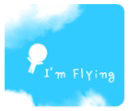
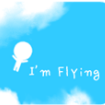
Site updated: 2015-12-16 20:45:50

diff --git a/2015/12/16/hello-world/index.html b/2015/12/16/hello-world/index.html
@@ -32,7 +32,7 @@
 	<header id="header" class="inner">
 		<a href="/" class="profilepic">
 			
-			<img lazy-src="/img/myTitle2.png" class="js-avatar">
+			<img lazy-src="/img/myTitle.png" class="js-avatar">
 			
 		</a>
 
@@ -96,7 +96,7 @@
 	<div class="intrude-less">
 		<header id="header" class="inner">
 			<a href="/" class="profilepic">
-				<img lazy-src="/img/myTitle2.png" class="js-avatar">
+				<img lazy-src="/img/myTitle.png" class="js-avatar">
 			</a>
 			<hgroup>
 			  <h1 class="header-author"><a href="/" title="回到主页">Tianle Zhang</a></h1>

diff --git a/2015/12/16/test/index.html b/2015/12/16/test/index.html
@@ -32,7 +32,7 @@
 	<header id="header" class="inner">
 		<a href="/" class="profilepic">
 			
-			<img lazy-src="/img/myTitle2.png" class="js-avatar">
+			<img lazy-src="/img/myTitle.png" class="js-avatar">
 			
 		</a>
 
@@ -96,7 +96,7 @@
 	<div class="intrude-less">
 		<header id="header" class="inner">
 			<a href="/" class="profilepic">
-				<img lazy-src="/img/myTitle2.png" class="js-avatar">
+				<img lazy-src="/img/myTitle.png" class="js-avatar">
 			</a>
 			<hgroup>
 			  <h1 class="header-author"><a href="/" title="回到主页">Tianle Zhang</a></h1>

diff --git a/archives/2015/12/index.html b/archives/2015/12/index.html
@@ -31,7 +31,7 @@
 	<header id="header" class="inner">
 		<a href="/" class="profilepic">
 			
-			<img lazy-src="/img/myTitle2.png" class="js-avatar">
+			<img lazy-src="/img/myTitle.png" class="js-avatar">
 			
 		</a>
 
@@ -95,7 +95,7 @@
 	<div class="intrude-less">
 		<header id="header" class="inner">
 			<a href="/" class="profilepic">
-				<img lazy-src="/img/myTitle2.png" class="js-avatar">
+				<img lazy-src="/img/myTitle.png" class="js-avatar">
 			</a>
 			<hgroup>
 			  <h1 class="header-author"><a href="/" title="回到主页">Tianle Zhang</a></h1>

diff --git a/archives/2015/index.html b/archives/2015/index.html
@@ -31,7 +31,7 @@
 	<header id="header" class="inner">
 		<a href="/" class="profilepic">
 			
-			<img lazy-src="/img/myTitle2.png" class="js-avatar">
+			<img lazy-src="/img/myTitle.png" class="js-avatar">
 			
 		</a>
 
@@ -95,7 +95,7 @@
 	<div class="intrude-less">
 		<header id="header" class="inner">
 			<a href="/" class="profilepic">
-				<img lazy-src="/img/myTitle2.png" class="js-avatar">
+				<img lazy-src="/img/myTitle.png" class="js-avatar">
 			</a>
 			<hgroup>
 			  <h1 class="header-author"><a href="/" title="回到主页">Tianle Zhang</a></h1>

diff --git a/archives/index.html b/archives/index.html
@@ -31,7 +31,7 @@
 	<header id="header" class="inner">
 		<a href="/" class="profilepic">
 			
-			<img lazy-src="/img/myTitle2.png" class="js-avatar">
+			<img lazy-src="/img/myTitle.png" class="js-avatar">
 			
 		</a>
 
@@ -95,7 +95,7 @@
 	<div class="intrude-less">
 		<header id="header" class="inner">
 			<a href="/" class="profilepic">
-				<img lazy-src="/img/myTitle2.png" class="js-avatar">
+				<img lazy-src="/img/myTitle.png" class="js-avatar">
 			</a>
 			<hgroup>
 			  <h1 class="header-author"><a href="/" title="回到主页">Tianle Zhang</a></h1>

diff --git a/index.html b/index.html
@@ -34,7 +34,7 @@
 	<header id="header" class="inner">
 		<a href="/" class="profilepic">
 			
-			<img lazy-src="/img/myTitle2.png" class="js-avatar">
+			<img lazy-src="/img/myTitle.png" class="js-avatar">
 			
 		</a>
 
@@ -98,7 +98,7 @@
 	<div class="intrude-less">
 		<header id="header" class="inner">
 			<a href="/" class="profilepic">
-				<img lazy-src="/img/myTitle2.png" class="js-avatar">
+				<img lazy-src="/img/myTitle.png" class="js-avatar">
 			</a>
 			<hgroup>
 			  <h1 class="header-author"><a href="/" title="回到主页">Tianle Zhang</a></h1>
